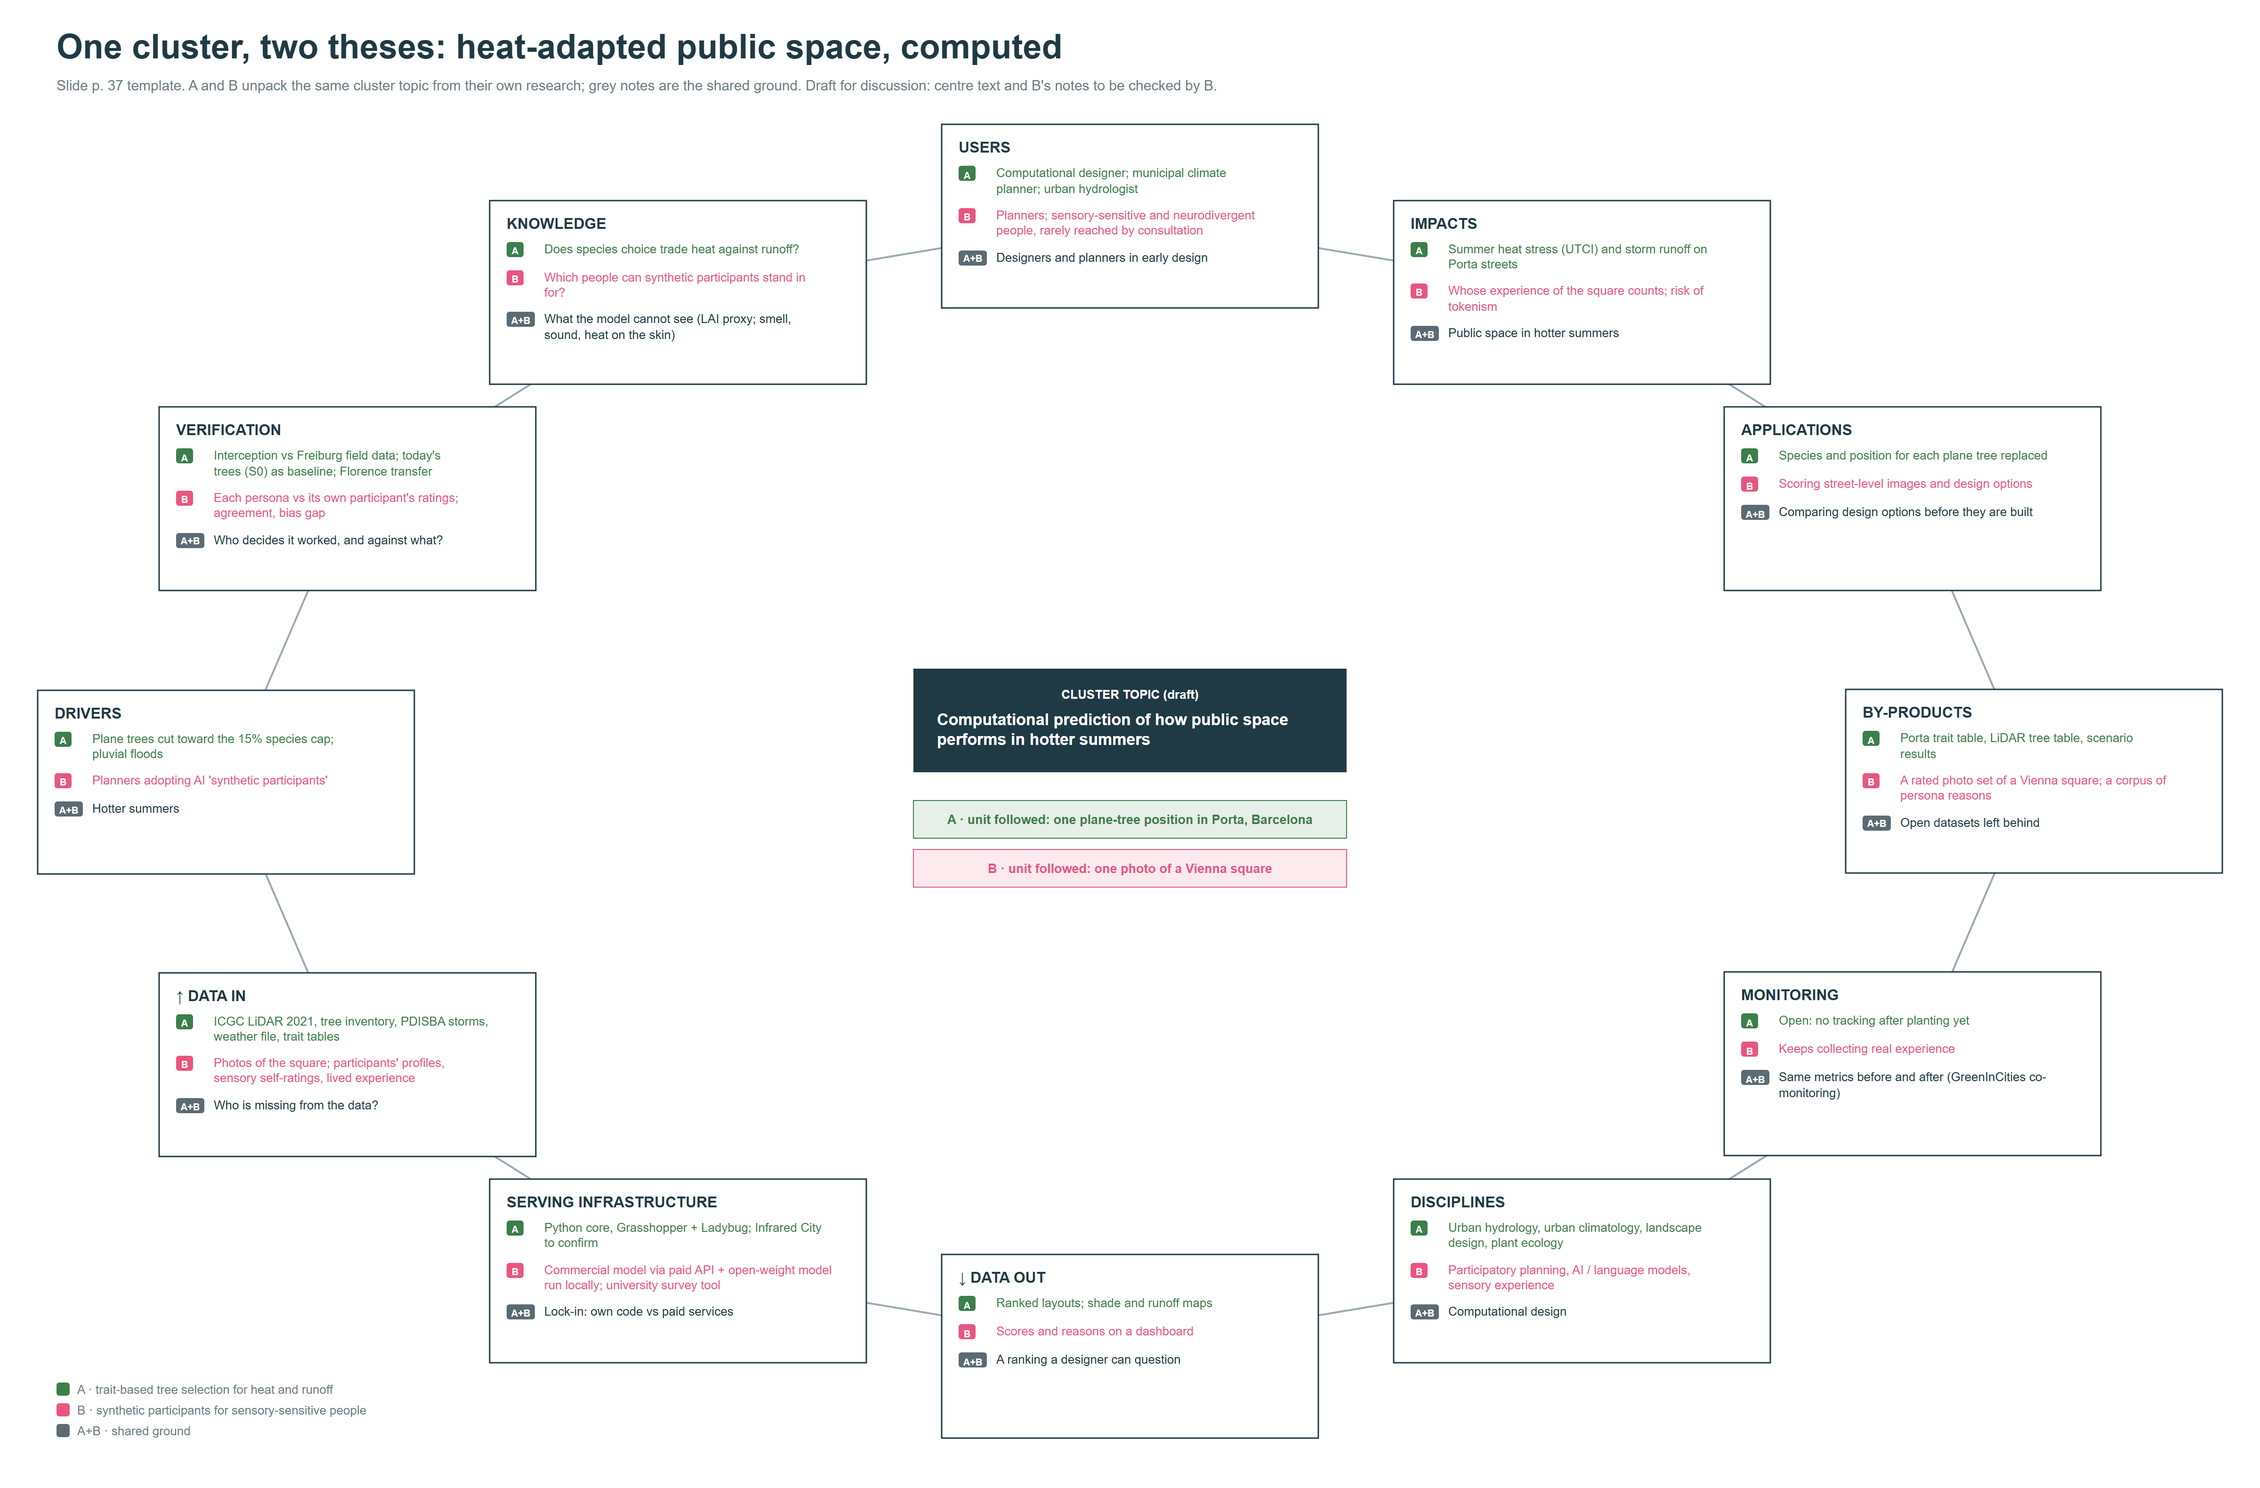
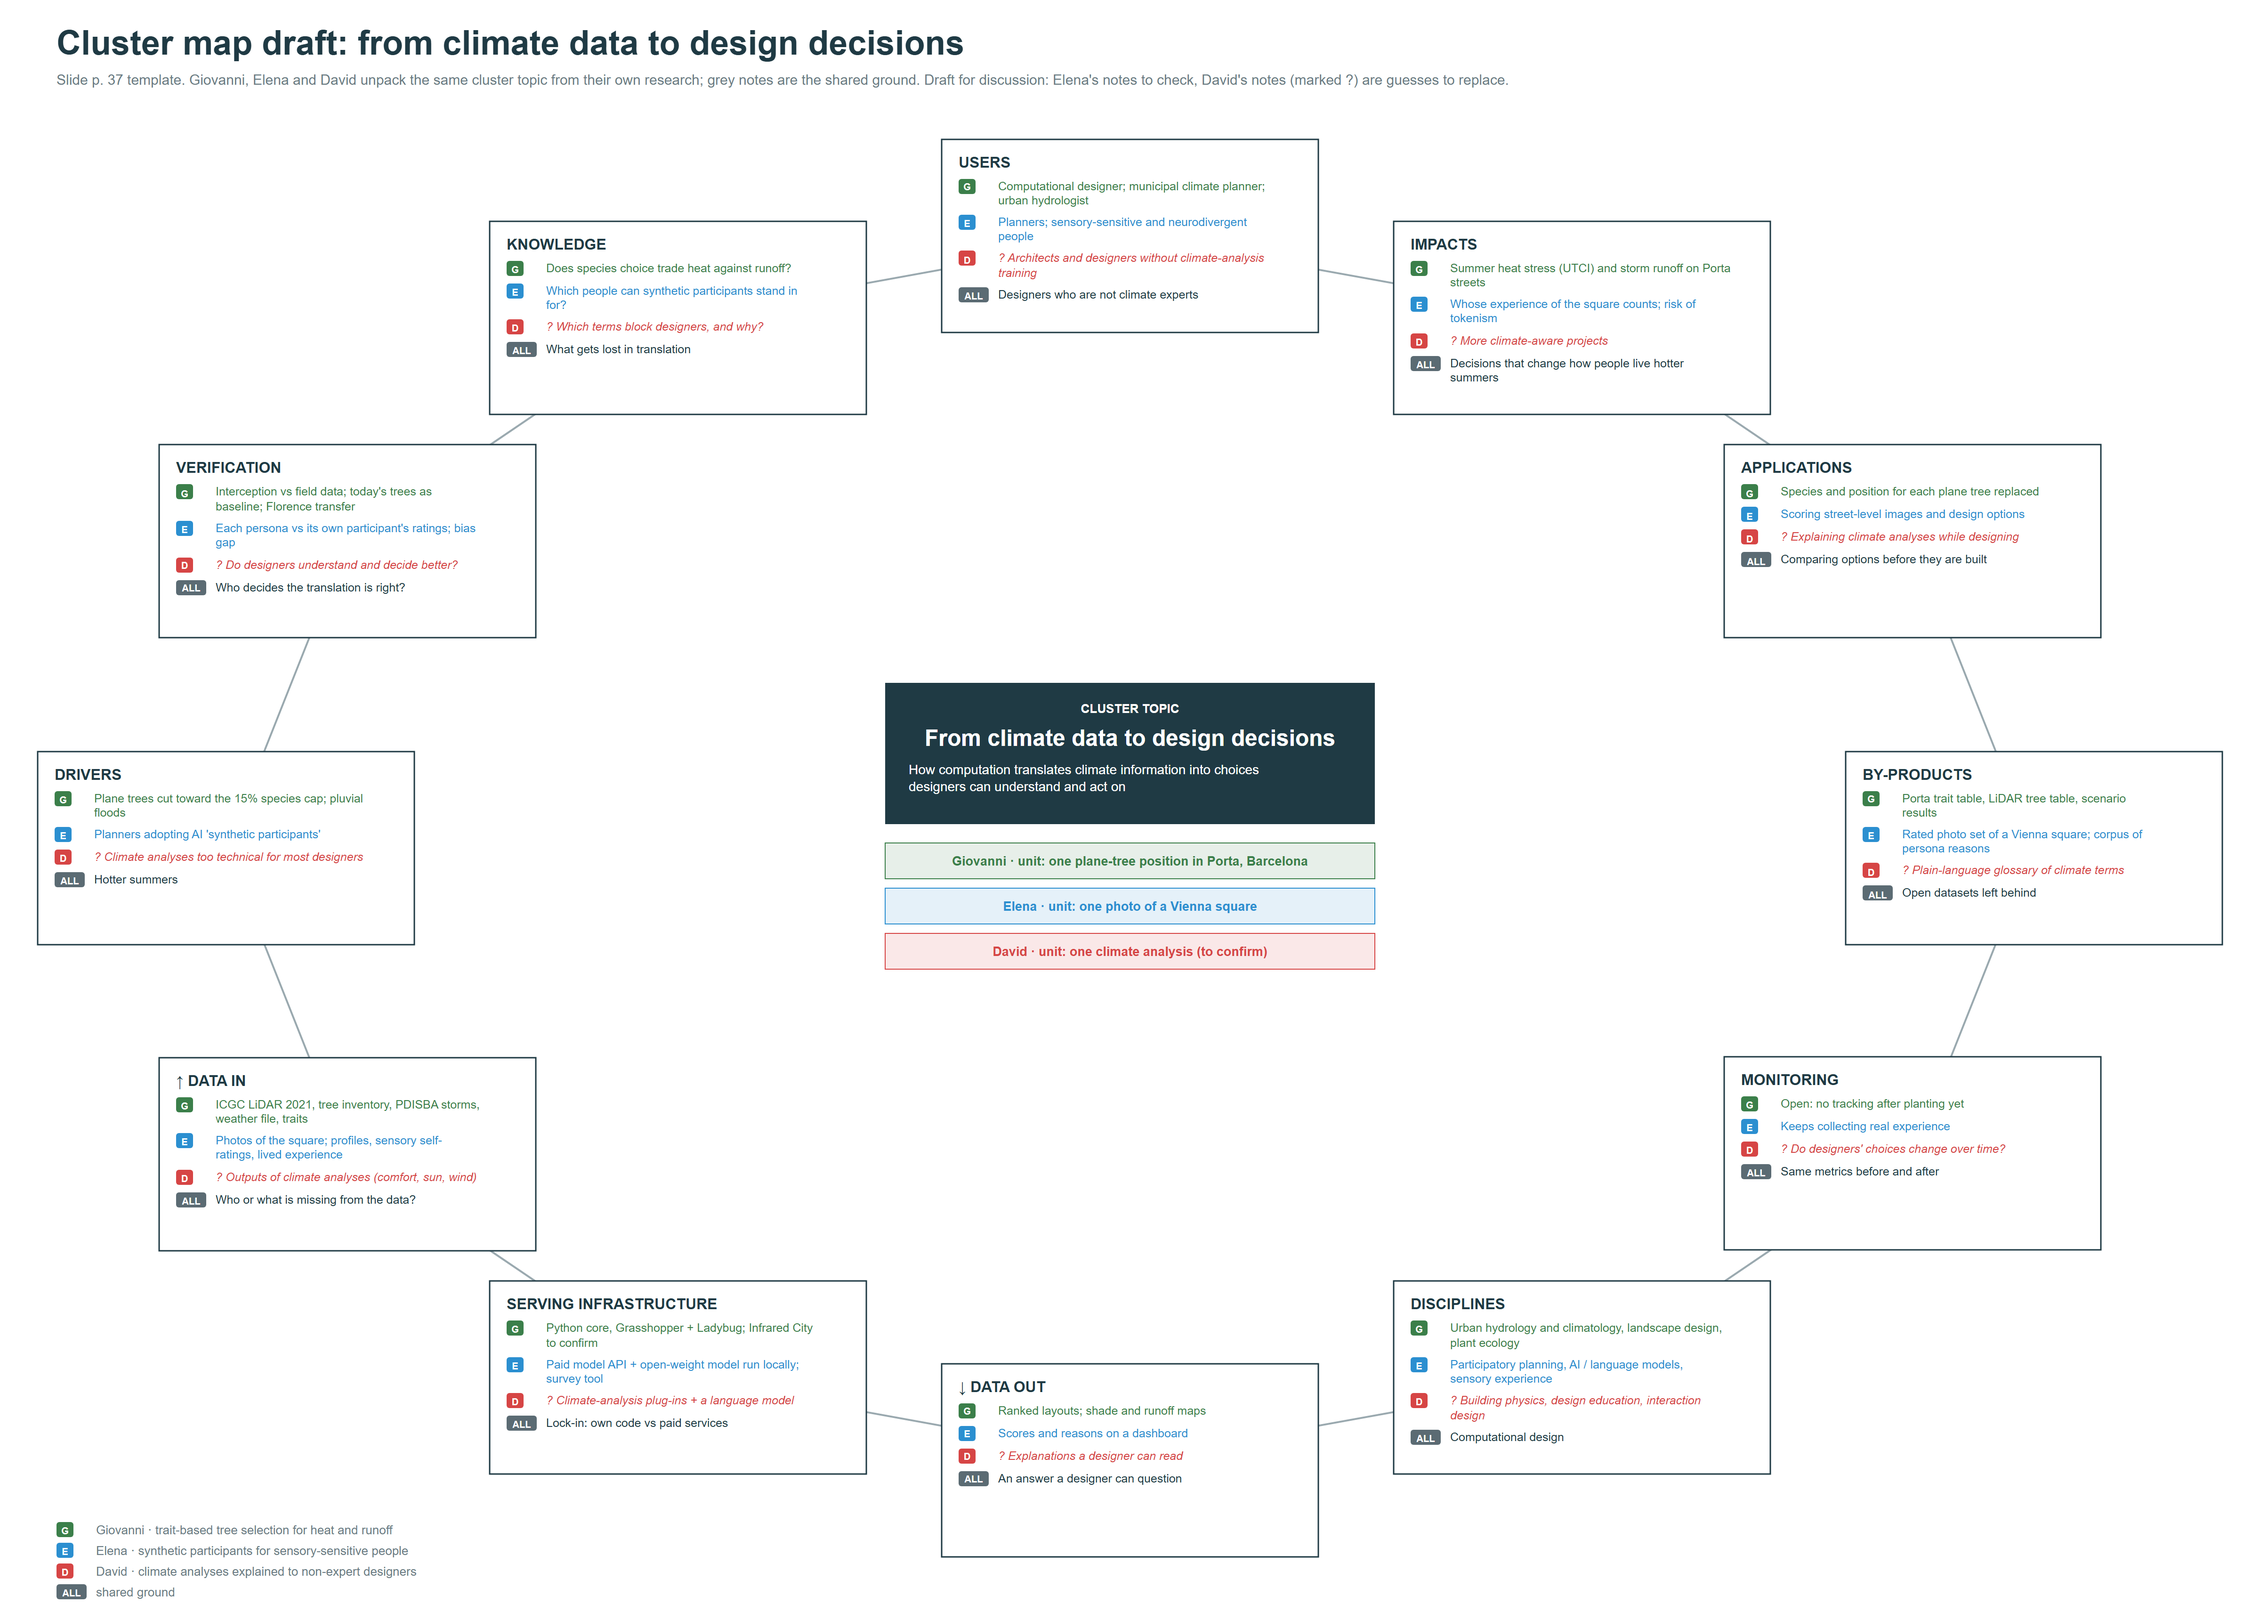
Cluster map: three theses (Giovanni, Elena, David) around 'From climate data to design decisions'

diff --git a/scripts/make_cluster_map.py b/scripts/make_cluster_map.py
@@ -1,44 +1,57 @@
-"""Shared cluster map on the RM p. 37 template ("Before you draw: open up your topic"): two theses around one cluster topic.
+"""Shared cluster map on the RM p. 37 template ("Before you draw: open up your topic"): three theses around one cluster topic.
 
-A = this thesis (notes/methodology.md, notes/miro_map_proposal.md). B = the colleague's "plaza photo" map, as drawn by her (B to check).
-The centre text is a draft to agree. Output: slides/fig/09_cluster_map.svg + .png (2400x1580).
+Giovanni (green) = this thesis (notes/methodology.md, notes/miro_map_proposal.md). Elena (light blue) = her "plaza photo" map,
+as drawn by her (Elena to check). David (red) = only his topic is known; his notes start with "?" and are guesses for him to replace.
+Cluster topic = proposal 1, agreed 14 Oct. Output: slides/fig/09_cluster_map.svg + .png (2400x1720).
 """
 import math
 from xml.sax.saxutils import escape
 import make_infographics as mi
 
-mi.W, mi.H = 2400, 1580
+mi.W, mi.H = 2400, 1720
 W, H = mi.W, mi.H
 INK, MUTED, LINE = "#1F3A44", "#6B7C85", "#9AA9AF"
-A, B, BOTH = mi.TREE, "#E8567F", "#5B6B73"   # thesis A green, thesis B pink, shared grey
-CX, CY, RX, RY, BW, BH = 1200, 830, 960, 600, 400, 195
+PEOPLE = [("G", mi.TREE, "Giovanni"), ("E", "#2B8FD0", "Elena"), ("D", "#D64545", "David"), ("ALL", "#5B6B73", "shared")]
+CX, CY, RX, RY, BW, BH = 1200, 900, 960, 650, 400, 205
 
-# clockwise from the top, in the template's order: (title, A, B, shared)
+# clockwise from the top, in the template's order: (title, Giovanni, Elena, David, shared)
 BOXES = [
     ("USERS", "Computational designer; municipal climate planner; urban hydrologist",
-     "Planners; sensory-sensitive and neurodivergent people, rarely reached by consultation", "Designers and planners in early design"),
+     "Planners; sensory-sensitive and neurodivergent people", "? Architects and designers without climate-analysis training",
+     "Designers who are not climate experts"),
     ("IMPACTS", "Summer heat stress (UTCI) and storm runoff on Porta streets",
-     "Whose experience of the square counts; risk of tokenism", "Public space in hotter summers"),
+     "Whose experience of the square counts; risk of tokenism", "? More climate-aware projects",
+     "Decisions that change how people live hotter summers"),
     ("APPLICATIONS", "Species and position for each plane tree replaced",
-     "Scoring street-level images and design options", "Comparing design options before they are built"),
+     "Scoring street-level images and design options", "? Explaining climate analyses while designing",
+     "Comparing options before they are built"),
     ("BY-PRODUCTS", "Porta trait table, LiDAR tree table, scenario results",
-     "A rated photo set of a Vienna square; a corpus of persona reasons", "Open datasets left behind"),
+     "Rated photo set of a Vienna square; corpus of persona reasons", "? Plain-language glossary of climate terms",
+     "Open datasets left behind"),
     ("MONITORING", "Open: no tracking after planting yet",
-     "Keeps collecting real experience", "Same metrics before and after (GreenInCities co-monitoring)"),
-    ("DISCIPLINES", "Urban hydrology, urban climatology, landscape design, plant ecology",
-     "Participatory planning, AI / language models, sensory experience", "Computational design"),
+     "Keeps collecting real experience", "? Do designers' choices change over time?",
+     "Same metrics before and after"),
+    ("DISCIPLINES", "Urban hydrology and climatology, landscape design, plant ecology",
+     "Participatory planning, AI / language models, sensory experience", "? Building physics, design education, interaction design",
+     "Computational design"),
     ("↓ DATA OUT", "Ranked layouts; shade and runoff maps",
-     "Scores and reasons on a dashboard", "A ranking a designer can question"),
+     "Scores and reasons on a dashboard", "? Explanations a designer can read",
+     "An answer a designer can question"),
     ("SERVING INFRASTRUCTURE", "Python core, Grasshopper + Ladybug; Infrared City to confirm",
-     "Commercial model via paid API + open-weight model run locally; university survey tool", "Lock-in: own code vs paid services"),
-    ("↑ DATA IN", "ICGC LiDAR 2021, tree inventory, PDISBA storms, weather file, trait tables",
-     "Photos of the square; participants' profiles, sensory self-ratings, lived experience", "Who is missing from the data?"),
+     "Paid model API + open-weight model run locally; survey tool", "? Climate-analysis plug-ins + a language model",
+     "Lock-in: own code vs paid services"),
+    ("↑ DATA IN", "ICGC LiDAR 2021, tree inventory, PDISBA storms, weather file, traits",
+     "Photos of the square; profiles, sensory self-ratings, lived experience", "? Outputs of climate analyses (comfort, sun, wind)",
+     "Who or what is missing from the data?"),
     ("DRIVERS", "Plane trees cut toward the 15% species cap; pluvial floods",
-     "Planners adopting AI 'synthetic participants'", "Hotter summers"),
-    ("VERIFICATION", "Interception vs Freiburg field data; today's trees (S0) as baseline; Florence transfer",
-     "Each persona vs its own participant's ratings; agreement, bias gap", "Who decides it worked, and against what?"),
+     "Planners adopting AI 'synthetic participants'", "? Climate analyses too technical for most designers",
+     "Hotter summers"),
+    ("VERIFICATION", "Interception vs field data; today's trees as baseline; Florence transfer",
+     "Each persona vs its own participant's ratings; bias gap", "? Do designers understand and decide better?",
+     "Who decides the translation is right?"),
     ("KNOWLEDGE", "Does species choice trade heat against runoff?",
-     "Which people can synthetic participants stand in for?", "What the model cannot see (LAI proxy; smell, sound, heat on the skin)"),
+     "Which people can synthetic participants stand in for?", "? Which terms block designers, and why?",
+     "What gets lost in translation"),
 ]
 
 
@@ -47,51 +60,57 @@ def txt(x, y, s, size=13, fill=INK, weight="normal", anchor="start", italic=Fals
     return f'<text x="{x:.0f}" y="{y:.0f}" font-size="{size}" fill="{fill}" font-weight="{weight}" text-anchor="{anchor}"{it}>{escape(s)}</text>'
 
 
+def chip(x, y, tag, col):
+    w = 32 if tag == "ALL" else 18
+    return (f'<rect x="{x:.0f}" y="{y - 12:.0f}" width="{w}" height="16" rx="3" fill="{col}"/>'
+            + txt(x + w / 2, y + 1, tag, 10, "#fff", "bold", "middle"))
+
+
 def centre(i):
     th = math.radians(i * 360 / len(BOXES))
     return CX + RX * math.sin(th), CY - RY * math.cos(th)
 
 
-def box(i, title, a, b, both):
+def box(i, title, *notes):
     x, y = centre(i)
     x0, y0 = x - BW / 2, y - BH / 2
     s = f'<rect x="{x0:.0f}" y="{y0:.0f}" width="{BW}" height="{BH}" fill="#fff" stroke="{INK}" stroke-width="1.5"/>'
     s += txt(x0 + 18, y0 + 30, title, 16, INK, "bold")
-    yy = y0 + 56
-    for col, tag, t_ in ((A, "A", a), (B, "B", b), (BOTH, "A+B", both)):
-        s += f'<rect x="{x0 + 18:.0f}" y="{yy - 12:.0f}" width="{30 if tag == "A+B" else 18}" height="16" rx="3" fill="{col}"/>'
-        s += txt(x0 + (33 if tag == "A+B" else 27), yy + 1, tag, 10, "#fff", "bold", "middle")
-        p, h = mi.para(x0 + 58, yy, t_, BW - 76, 13, 1.25, fill=col if tag != "A+B" else INK)
+    yy = y0 + 54
+    for (tag, col, _), note in zip(PEOPLE, notes):
+        guess = note.startswith("?")
+        s += chip(x0 + 18, yy, tag, col)
+        p, h = mi.para(x0 + 60, yy, note, BW - 78, 12.5, 1.22, fill=INK if tag == "ALL" else col, italic=guess)
         s += p
-        yy += max(h, 18) + 12
+        yy += max(h, 16) + 8
     return s
 
 
 def build():
-    b = [txt(60, 62, "One cluster, two theses: heat-adapted public space, computed", 36, INK, "bold"),
-         txt(60, 96, "Slide p. 37 template. A and B unpack the same cluster topic from their own research; grey notes are the shared ground. "
-                     "Draft for discussion: centre text and B's notes to be checked by B.", 15, MUTED)]
+    b = [txt(60, 58, "Cluster map draft: from climate data to design decisions", 36, INK, "bold"),
+         txt(60, 90, "Slide p. 37 template. Giovanni, Elena and David unpack the same cluster topic from their own research; grey notes are the shared ground. "
+                     "Draft for discussion: Elena's notes to check, David's notes (marked ?) are guesses to replace.", 15, MUTED)]
     pts = [centre(i) for i in range(len(BOXES))]
     loop = " ".join(f"{x:.0f},{y:.0f}" for x, y in pts + pts[:1])
     b.append(f'<polyline points="{loop}" fill="none" stroke="{LINE}" stroke-width="2"/>')
     b += [box(i, *bx) for i, bx in enumerate(BOXES)]
-    # centre: cluster topic + the two units followed
-    b.append(f'<rect x="{CX - 230}" y="{CY - 120}" width="460" height="110" fill="{INK}"/>')
-    b.append(txt(CX, CY - 88, "CLUSTER TOPIC (draft)", 13, "#fff", "bold", "middle"))
-    b.append(mi.para(CX - 205, CY - 60, "Computational prediction of how public space performs in hotter summers", 410, 17, 1.25, fill="#fff", weight="bold")[0])
-    for k, (col, s_) in enumerate(((A, "A · unit followed: one plane-tree position in Porta, Barcelona"),
-                                   (B, "B · unit followed: one photo of a Vienna square"))):
-        y = CY + 20 + k * 52
-        b.append(f'<rect x="{CX - 230}" y="{y}" width="460" height="40" fill="{col}" fill-opacity="0.12" stroke="{col}"/>')
-        b.append(txt(CX, y + 25, s_, 13.5, col, "bold", "middle"))
+    # centre: cluster topic + the unit each person follows
+    b.append(f'<rect x="{CX - 260}" y="{CY - 175}" width="520" height="150" fill="{INK}"/>')
+    b.append(txt(CX, CY - 143, "CLUSTER TOPIC", 13, "#fff", "bold", "middle"))
+    b.append(txt(CX, CY - 108, "From climate data to design decisions", 24, "#fff", "bold", "middle"))
+    b.append(mi.para(CX - 235, CY - 78, "How computation translates climate information into choices designers can understand and act on",
+                     470, 14, 1.3, fill="#fff")[0])
+    units = ["unit: one plane-tree position in Porta, Barcelona", "unit: one photo of a Vienna square", "unit: one climate analysis (to confirm)"]
+    for k, ((tag, col, name), u) in enumerate(zip(PEOPLE, units)):
+        y = CY - 5 + k * 48
+        b.append(f'<rect x="{CX - 260}" y="{y}" width="520" height="38" fill="{col}" fill-opacity="0.12" stroke="{col}"/>')
+        b.append(txt(CX, y + 24, f"{name} · {u}", 13.5, col, "bold", "middle"))
     # key
-    ky = H - 60
-    for k, (col, lab) in enumerate(((A, "A · trait-based tree selection for heat and runoff"),
-                                    (B, "B · synthetic participants for sensory-sensitive people"),
-                                    (BOTH, "A+B · shared ground"))):
-        x = 60 + k * 0
-        y = ky - 40 + k * 22
-        b.append(f'<rect x="{x}" y="{y - 12}" width="14" height="14" rx="3" fill="{col}"/>' + txt(x + 22, y, lab, 13, MUTED))
+    topics = ["trait-based tree selection for heat and runoff", "synthetic participants for sensory-sensitive people",
+              "climate analyses explained to non-expert designers", "shared ground"]
+    for k, ((tag, col, name), t_) in enumerate(zip(PEOPLE, topics)):
+        y = H - 92 + k * 22
+        b.append(chip(60, y, tag, col) + txt(102, y + 1, f"{name} · {t_}" if tag != "ALL" else t_, 13, MUTED))
     return "".join(b)
 
 
